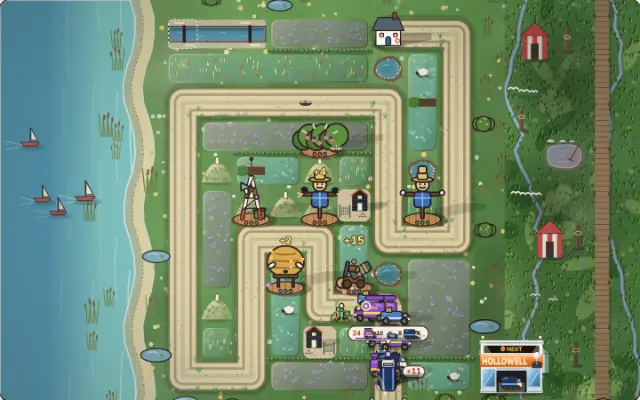
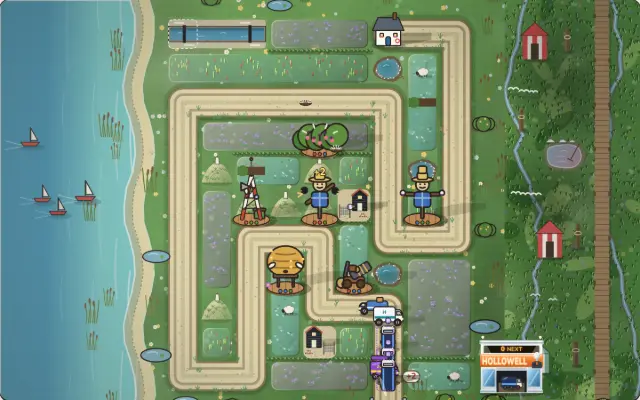
Hedgerow: on the Fleet Cath's run level is an inked rosette at her feet in 2D, stamped down with a spiral of leaves at each level-up (the stamp alone under reduced motion); #stage[data-hero-level], a swing pose reported, sandbox heroUp; spec hedgerow-cathlevel; key art re-shot (plan item 492, slice 
Claude-Session: https://claude.ai/code/session_01SimvMN1RHBGCWN7Eo7MzhN

diff --git a/games/hedgerow/src/render.ts b/games/hedgerow/src/render.ts
@@ -234,7 +234,13 @@ export class Renderer {
   private moodWorry = 9;
   private moodPlant = 9;
   private towersSeen = -1;
-  heroMood: "rest" | "cheer" | "worried" | "plant" = "rest";
+  /** Her pose for tests and CSS (item 162's moods, plus item 492's crook swing while it lands). */
+  heroMood: "rest" | "cheer" | "worried" | "plant" | "swing" = "rest";
+  /** Plan item 492: seconds since her last level-up (the rosette's stamp and the leaves run 0.7 s). */
+  private levelBeat = 9;
+  levelUp(): void {
+    this.levelBeat = 0;
+  }
   private leaksThisWave = 0;
   /** Tower id -> seconds since it was built or upgraded (drives the pop-in). */
   private built = new Map<number, number>();
@@ -1286,7 +1292,8 @@ export class Renderer {
     if (game.towers.length > this.towersSeen && this.towersSeen >= 0) this.moodPlant = 0;
     this.towersSeen = game.towers.length;
     const mood = this.moodCheer < 1.4 ? "cheer" : this.moodWorry < 1.4 ? "worried" : this.moodPlant < 1.2 ? "plant" : "rest";
-    this.heroMood = mood;
+    this.levelBeat += dt;
+    this.heroMood = this.heroSwung < 0.3 && h.down === 0 ? "swing" : mood;
     const walking = Math.hypot(h.tx - h.x, h.ty - h.y) > 0.03 && h.down === 0;
     // Plan item 132: the site poster (`?keyart`) stands its own Cath in front, so the field leaves hers out.
     const keyart = typeof document !== "undefined" && document.documentElement.dataset.keyart !== undefined;
@@ -1315,6 +1322,8 @@ export class Renderer {
               ? this.faceCheer
               : this.face,
         );
+        // Plan item 492: on the Fleet, where she grows through a run, her level is an inked rosette at her feet.
+        if (level.rules === "fleet") this.levelRosette(X(h.x) + s * HERO_SCALE * 0.2, Y(h.y + 0.22) - s * 0.02, s, h.level);
       },
     });
     // Plan item 143: the farmfolk, y-sorted with everything else on the field.
@@ -2184,6 +2193,52 @@ export class Renderer {
     ctx.closePath();
     ctx.fill();
     ctx.stroke();
+  }
+
+  /** Plan item 492: her run level as a small scalloped rosette in wheat and ink; a level-up stamps it down (1.7x to
+   *  1x over 0.25 s) while six leaves spiral out from her for 0.7 s (the stamp alone under reduced motion). */
+  private levelRosette(x: number, y: number, s: number, lv: number): void {
+    const { ctx } = this;
+    const b = this.levelBeat;
+    const r = Math.max(7, s * 0.1);
+    if (b < 0.7 && !this.reducedMotion) {
+      for (let i = 0; i < 6; i++) {
+        const a = (i / 6) * Math.PI * 2 + b * 7;
+        const d = r * (1.2 + b * 6);
+        ctx.save();
+        ctx.globalAlpha = 1 - b / 0.7;
+        ctx.translate(x - s * 0.2 + Math.cos(a) * d, y - s * 0.3 + Math.sin(a) * d * 0.6);
+        ctx.rotate(a + 1);
+        ctx.fillStyle = i % 2 ? "#7fae4a" : "#5f8a34";
+        ctx.beginPath();
+        ctx.ellipse(0, 0, r * 0.55, r * 0.25, 0, 0, Math.PI * 2);
+        ctx.fill();
+        ctx.restore();
+      }
+    }
+    const k = b < 0.25 && !this.reducedMotion ? 1.7 - (b / 0.25) * 0.7 : 1;
+    ctx.save();
+    ctx.translate(x, y);
+    ctx.scale(k, k);
+    ctx.beginPath();
+    for (let i = 0; i <= 20; i++) {
+      const a = (i / 20) * Math.PI * 2;
+      const rr = r * (i % 2 ? 0.86 : 1);
+      if (i === 0) ctx.moveTo(Math.cos(a) * rr, Math.sin(a) * rr);
+      else ctx.lineTo(Math.cos(a) * rr, Math.sin(a) * rr);
+    }
+    ctx.closePath();
+    ctx.fillStyle = "#e7c36a";
+    ctx.fill();
+    ctx.lineWidth = Math.max(1.2, r * 0.14);
+    ctx.strokeStyle = "#3a2716";
+    ctx.stroke();
+    ctx.fillStyle = "#3a2716";
+    ctx.font = `800 ${Math.round(r * 1.05)}px system-ui, sans-serif`;
+    ctx.textAlign = "center";
+    ctx.textBaseline = "middle";
+    ctx.fillText(String(lv), 0, r * 0.06);
+    ctx.restore();
   }
 
   private heroBar(game: Game, x: number, y: number, s: number): void {

diff --git a/games/hedgerow/src/main.ts b/games/hedgerow/src/main.ts
@@ -51,6 +51,7 @@ import {
   inherentProps,
   canCallEarly,
   drainEvents,
+  growHero,
   earlyBonus,
   isBig,
   crownBlock,
@@ -209,7 +210,7 @@ import { holdsKnockout, KNOCKOUT_MS, renderStep } from "./knockout";
 import { doorstepCleared, doorstepLeak, doorstepRound, doorstepShown, doorstepSwept, newDoorstep, saleBoard, type Doorstep } from "./doorstep";
 import { dayLamps, dayPhase } from "./sunlight";
 import { depotSides, gateSignRect, isJettySide, lastCrayon, mouthDepot, setWonLevels } from "./theme";
-import { KITS } from "./hero";
+import { KITS, xpFor } from "./hero";
 import { OUTFITS, isUnlocked as outfitUnlocked, outfitFor, shareOutfit, wear, wornOutfit } from "./wardrobe";
 import { actScene, renderMap } from "./map";
 import { castSvg, type CastMember } from "./cast";
@@ -862,6 +863,14 @@ if (SANDBOX)
     depots3d: () => (renderer && is3D(renderer) ? renderer.depotRects() : []),
     // Plan item 486: a cell's centre on the 3D canvas (CSS px), to sample the lane and the plots in shots.
     cellPx3d: (col: number, row: number) => (renderer && is3D(renderer) ? renderer.cellToCanvas(col, row) : null),
+    // Plan item 492: Cath one level up, as the layers popped would raise her (her level-up beat runs for real).
+    heroUp: () => {
+      const g = game;
+      if (!g) return null;
+      g.popped = Math.max(g.popped, xpFor(g.hero.level + 1));
+      growHero(g);
+      return g.hero.level;
+    },
     // Plan item 486: the drifting cloud shadows off, so a sampled 3D frame is the same each run.
     noCloudShadows3d: () => (renderer && is3D(renderer) ? (renderer.noCloudShadows(), true) : false),
     dressing3d: () => (renderer && is3D(renderer) ? renderer.dressing() : null),
@@ -5053,6 +5062,10 @@ function onEvents(g: Game, evs: GameEvent[]): void {
         break;
       case "heroLevel":
         banner(`Cath is level ${ev.level}`, "Stronger and tougher for the rest of the run");
+        // Plan item 492: her rosette stamps the new number and the leaves spiral (2D); tests read the level here.
+        ui.stage.dataset.heroLevel = String(ev.level);
+        (renderer as { levelUp?: () => void } | null)?.levelUp?.();
+        hostFeel("delighted");
         break;
       case "injunction":
         sfx.playInjunction();
@@ -5468,6 +5481,8 @@ function frame(now: number): void {
   // Plan item 162: her pose on the stage (rest, cheer after a clean round, worried after a leak), for tests and CSS.
   const pose = (renderer as { heroMood?: string } | null)?.heroMood;
   if (pose && ui.stage.dataset.cathPose !== pose) ui.stage.dataset.cathPose = pose;
+  // Plan item 492: her run level (a resumed run starts where it was).
+  if (ui.stage.dataset.heroLevel !== String(g.hero.level)) ui.stage.dataset.heroLevel = String(g.hero.level);
   syncDepots(g);
   if (g.phase === "won" && doorstep.parcels) doorstepSwept(doorstep);
   syncDoorstep(g);

diff --git a/e2e-site/hedgerow-cathlevel.spec.ts b/e2e-site/hedgerow-cathlevel.spec.ts
@@ -1,0 +1,28 @@
+import { expect, test } from '@playwright/test'
+
+// Plan item 492: on the Fleet Cath grows through a run, and the field shows it: the stage carries her level, and a
+// level-up (the sandbox raises her as the layers popped would) moves it within 150 ms of the event reaching the page.
+type HG = { game(): { hero: { level: number }; level: { rules?: string } } | null; heroUp(): number | null }
+test('Cath levels up on the field: the stage carries her level and moves with it', async ({ page }) => {
+  test.setTimeout(120_000)
+  const stars = Object.fromEntries(Array.from({ length: 2 }, (_, i) => [String(i + 1), 3]))
+  const tips = { build: true, hero: true, early: true, pie: true, spec: true, neighbours: true, rally: true }
+  await page.goto('/hedgerow/?sandbox=1&2d')
+  await page.evaluate(([s, t]) => localStorage.setItem('hedgerow:v1', JSON.stringify({ version: 3, stars: s, seenBefore: { 3: true }, tips: t })), [stars, tips])
+  await page.goto('/hedgerow/?sandbox=1&2d&level=3')
+  await page.waitForFunction(() => !!(window as unknown as { hedgerow?: HG }).hedgerow?.game(), null, { timeout: 60_000 })
+  expect(await page.evaluate(() => (window as unknown as { hedgerow: HG }).hedgerow.game()!.level.rules)).toBe('fleet')
+  const stage = page.locator('#stage')
+  await expect(stage).toHaveAttribute('data-hero-level', '1')
+  const lv = await page.evaluate(() => {
+    const w = window as unknown as { hedgerow: HG; __up: number; __seen: number }
+    new MutationObserver(() => (w.__seen ??= performance.now())).observe(document.getElementById('stage')!, { attributes: true, attributeFilter: ['data-hero-level'] })
+    w.__up = performance.now()
+    return w.hedgerow.heroUp()
+  })
+  expect(lv).toBe(2)
+  await expect(stage).toHaveAttribute('data-hero-level', '2')
+  // the event is drained on the next stepped frame, so the move lands within a frame or two of the call
+  const lag = await page.evaluate(() => { const w = window as unknown as { __up: number; __seen: number }; return w.__seen - w.__up })
+  expect(lag).toBeLessThanOrEqual(150 + 1000 / 15)
+})

diff --git a/games/hedgerow/src/engine.ts b/games/hedgerow/src/engine.ts
@@ -3078,7 +3078,7 @@ export function hitEnemy(game: Game, e: Enemy, amount: number, by?: number, type
 }
 
 /** Cath's in-run level follows the layers popped; her body scales from the level-1 stats. */
-function growHero(game: Game): void {
+export function growHero(game: Game): void {
   const h = game.hero;
   const lv = levelFor(game.popped);
   if (lv <= h.level) return;

diff --git a/docs/plan/two-week-plan.md b/docs/plan/two-week-plan.md
@@ -4589,6 +4589,8 @@ Progress (lane A, 2026-11-18 05:25, slice 1, the data): `portfolio/src/studioLog
 - **Size:** 2
 
 ## 492. [ ] Hedgerow: Cath fights on the field and grows through a run *(lane B, in progress)*
+
+Progress (lane B, 2026-11-18 05:55, slice 1, 2D): on the Fleet (where her level grows: classic levels keep her at 1) her run level is an inked wheat rosette at her feet (scalloped, its number in ink, 0.2 of her height off her heel); a level-up stamps it down (1.7x to 1x over 0.25 s) while six leaves spiral out for 0.7 s (the stamp alone under reduced motion), her face goes delighted and the banner stays; `#stage[data-hero-level]` follows her level each frame (a resumed run starts where it was); `heroMood`/`data-cath-pose` adds `swing` while her crook lands (her drawing unchanged); `growHero` exported and sandbox `heroUp()`. New spec hedgerow-cathlevel (P, D); cath2d, showdown, fleet3d pass; key art re-shot. Shots scratchpad lv-sheet (P, D: level 1, mid level-up, 5). Left: the flinch when hit and the cheer on a knockout as poses she shows (not just reports), the footprint trail, the same in 3D (rosette and poses, item 346's scale kept).
 - **Why:** `hedge-l21-2d-D` (330-375 x 635-715), `hedge-l34-2d-D` (830-885 x 280-375), `hedge-l21-2d-P` (15-55 x 480-545), 3D (150-235 x 505-640): she stands on her ring as still as the scarecrow while she levels up inside a run (`hero.ts` `levelFor`, max 20) unseen (VISION 3-5). Checked 447 (her plate), 459 and 346 (her 3D model and one scale: kept, no bigger figure), 162 (her rest/cheer/worry poses: extended), 420/448, 468 (towers' attacks), 479, 480.
 - **Build:** a pose set in 2D (`sprites.ts`/`render.ts`) and 3D: an idle sway, a crook swing at a vehicle in reach (468's 2 px knock-back), a flinch when hit, a cheer on a knockout; her level a small inked rosette at her feet; a level-up a 700 ms beat (leaves spiral, the rosette stamps the number, one line through `cathsay.ts`); a footprint trail that fades in 1 s when she's moved. Reduced motion: the rosette's number and the line only.
 - **Accept:** `[data-cath-pose]` takes 4+ values in a sandbox wave (`window.hedgerow.sendWave`); `data-hero-level` matches `levelFor` at each level-up, its beat within 150 ms; her size unchanged (346); phone 2D fps in budget, 3D +2 draw calls or fewer; shots l21 and l34 P and D, 2D and 3D, one mid level-up.
